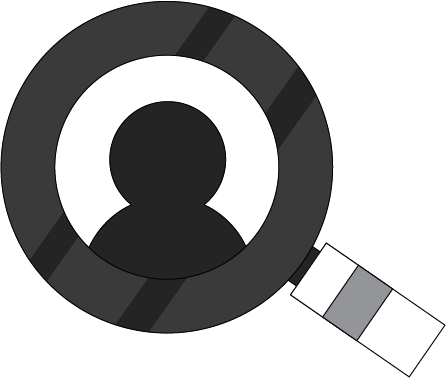
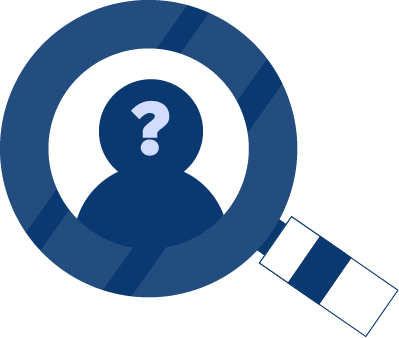
fist css intervension

diff --git a/index.html b/index.html
@@ -5,31 +5,45 @@
     <meta charset="UTF-8">
     <meta http-equiv="X-UA-Compatible" content="IE=edge">
     <meta name="viewport" content="width=device-width, initial-scale=1.0">
+    <link rel="stylesheet" href="style.css">
     <title>Encypter</title>
 </head>
 
 <body>
     <header>
-        <h1> <a href="index.html"> Encrypt</a> </h1>
+        <h1 class="encrypterLogo"> <a href="index.html"><img src="resourses/encrypterLogo.png" alt="Encrypter Logo"
+                    srcset=""></a>
+        </h1>
     </header>
+
     <main class="mainContainer">
         <section class="encryptDecryptArea">
-            <fieldset>
-                <form action="">
-                    <textarea class="forEncryptText" name="encryptArea" id="translateText" cols="30"
-                        rows="10"></textarea>
-                    <button>Encrypt</button>
-                    <button>Decrypt</button>
-                </form>
-            </fieldset>
+            <textarea class="forEncryptText" id="" cols="30" rows="10" placeholder="Enter text here"></textarea>
+            <h4 class="textAreaFooter"><img src="resourses/bi_exclamation-circle-fill.png" alt="IMPORTANT"> Only
+                lowercase with no accent</h4>
+            <button onclick="" class="encryptBtn">Encrypt</button>
+            <button onclick="" class="decryptBtn">Decrypt</button>
         </section>
         <section class="resultArea">
-
-            <div class="imageArea">
+            <div class="resultContainer">
+                <p class="resultText" id="resultText"> </p>
+            </div>
+            <!-- <div class="imageArea">
                 <img class="lookingResultImage" src="resourses/result.png" alt="looking for something to encrypt">
+                <h2>Looking for something to encrypt</h2>
+            </div> -->
+
+            <div class="noResultCard">
+                <img src="resourses/result.png" alt="Looking for something for encrypt" class="noResultCard-img">
+                <div class="noResultCard-content">
+                    <h2 class="noResultCard-title">Looking for something to encrypt</h2>
+                    <p class="noResultCard-description">Please enter a text for encrypt</p>
+                </div>
             </div>
         </section>
     </main>
+
+    <script src="scrypt.js"></script>
 
 
 </body>

diff --git a/style.css b/style.css
@@ -1,0 +1,95 @@
+body {
+    margin: 0;
+    padding: 0;
+    box-sizing: border-box;
+}
+
+::-webkit-input-placeholder {
+    color: #D3DBFF;
+    font-size: 20px;
+    font-style: italic;
+}
+
+.encrypterLogo {
+    margin: 0 0 0 20px;
+}
+
+.mainContainer {
+    width: 1200px;
+    height: 800px;
+}
+
+.encryptDecryptArea {
+    width: 60%;
+    height: 600px;
+    display: inline-block;
+    margin: 0 0 0 5%;
+}
+
+.forEncryptText {
+    display: block;
+    width: 80%;
+    height: 80%;
+    text-align: initial;
+    box-shadow: 5px 5px 20px 10px #D3DBFF;
+    border: none;
+}
+
+.forEncryptText:focus {
+    outline-color: #0A3871;
+}
+
+.textAreaFooter {
+    color: #D3DBFF;
+}
+
+.encryptBtn {
+    width: 40%;
+    padding: 10px 40px;
+    border-radius: 15px;
+    font-size: 20px;
+    background: #0A3871;
+    border: 1px solid #002843;
+    color: white;
+}
+
+.decryptBtn {
+    width: 40%;
+    padding: 10px 40px;
+    margin: 20px 0 0 0%;
+    border-radius: 15px;
+    font-size: 20px;
+    background: #D8DFE8;
+    border: 1px solid #0A3871;
+    color: #0A3871;
+}
+
+.resultArea {
+    vertical-align: top;
+    width: 27%;
+    height: 612px;
+    display: inline-flex;
+    box-shadow: 5px 5px 20px 10px #D3DBFF;
+}
+
+.noResultCard {
+    width: 70%;
+    margin: 10% auto;
+}
+
+.noResultCard-img {
+    width: 80%;
+    margin: 50% 15%;
+}
+
+.noResultCard-title {
+    font-size: 25px;
+    text-align: center;
+    color: #0A3871;
+}
+
+.noResultCard-description {
+    font-size: 16px;
+    text-align: center;
+    color: #D3DBFF;
+}
